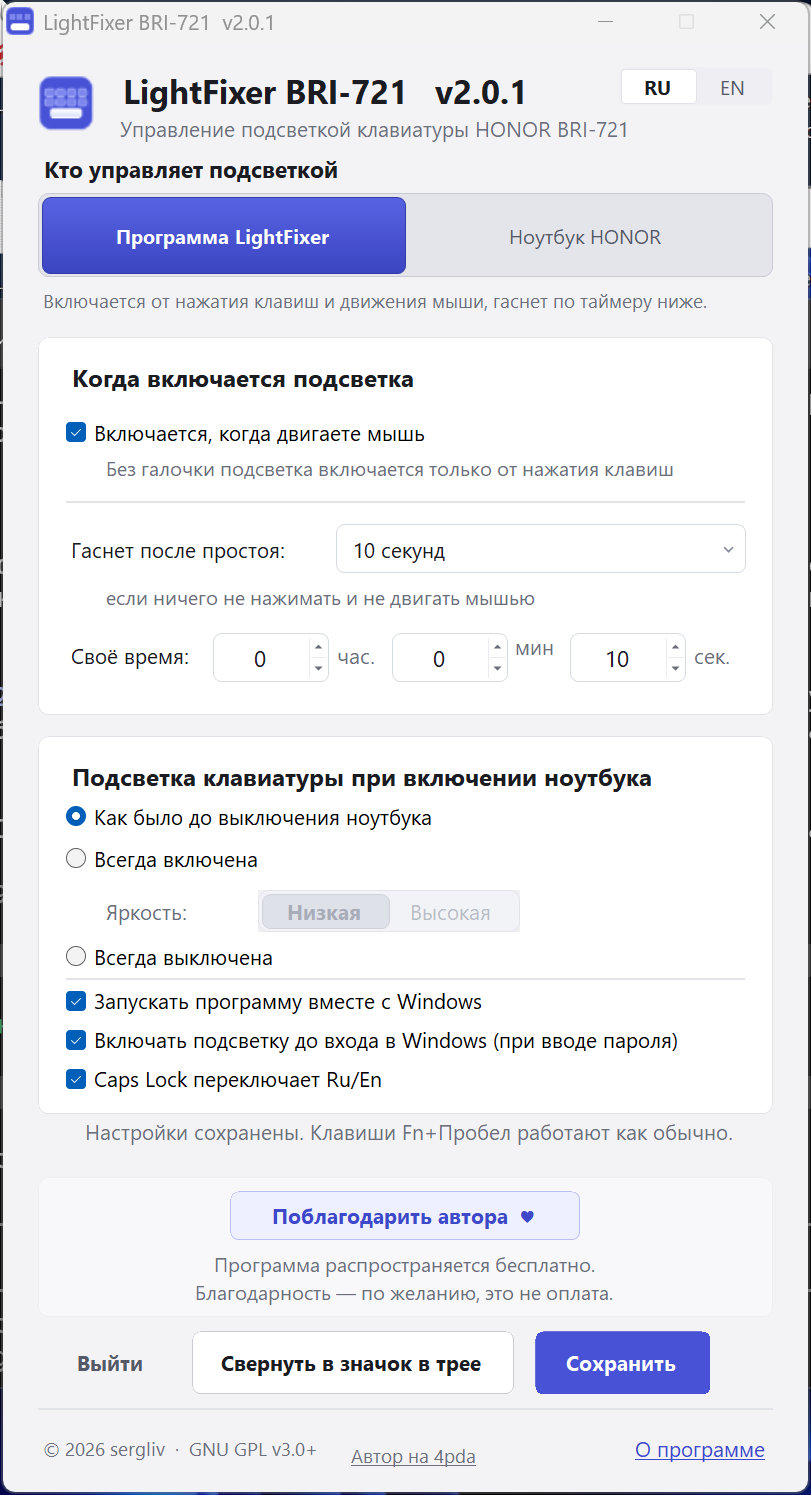
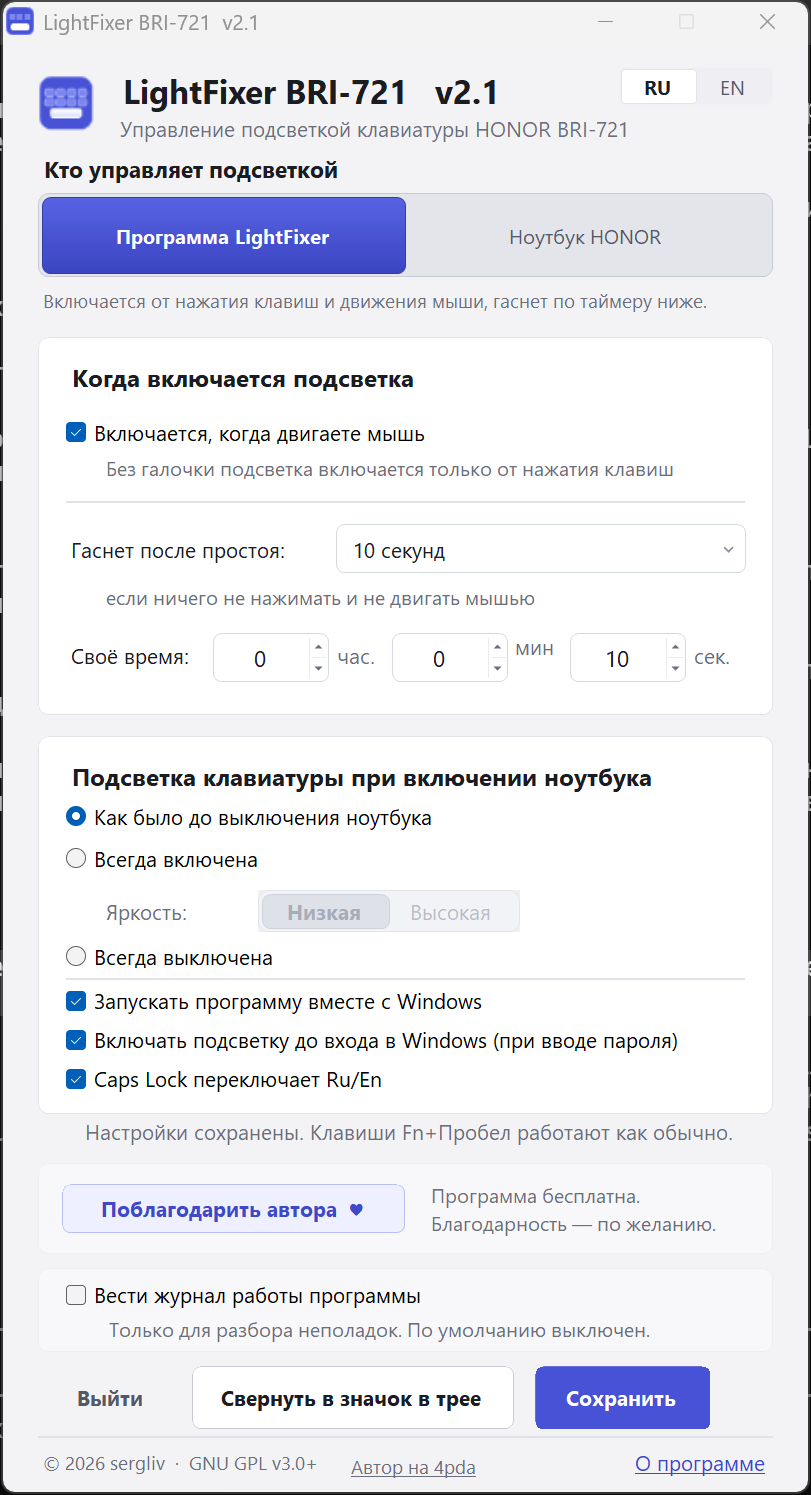
2.1: журнал работы включается галочкой, по умолчанию выключен

diff --git a/LightFixer.cs b/LightFixer.cs
@@ -34,8 +34,8 @@ using System.Windows.Forms;
 
 // the same number must stand in three places: here, in app.manifest and in the window;
 // bump them together
-[assembly: AssemblyVersion("2.0.1.0")]
-[assembly: AssemblyFileVersion("2.0.1.0")]
+[assembly: AssemblyVersion("2.1.0.0")]
+[assembly: AssemblyFileVersion("2.1.0.0")]
 [assembly: AssemblyProduct("LightFixer BRI-721")]
 [assembly: AssemblyCopyright("Copyright (C) 2026 sergliv")]
 
@@ -53,6 +53,10 @@ namespace LightFixer
         public bool MouseWake = true;
         public bool BootLight = true;       // light at the password screen, before sign-in
         public bool CapsSwitch = false;     // Caps Lock switches the keyboard layout, not the lock
+        // the journal is off until the owner asks for it: it exists only to find out why
+        // something did not work, and a program that writes files by default is a program
+        // people have to trust blindly
+        public bool LogEnabled = false;
         public string Lang = "";            // interface language: "ru" | "en"
         public int FwTimeout = 0;           // the laptop's own timeout, kept to restore it on exit
         public string Path;
@@ -81,6 +85,9 @@ namespace LightFixer
                     if (m.Success) BootLight = m.Groups[1].Value == "true";
                     m = Regex.Match(t, "\"capsSwitch\"\\s*:\\s*(true|false)");
                     if (m.Success) CapsSwitch = m.Groups[1].Value == "true";
+                    // a file written by an older version has no such key: logging stays off
+                    m = Regex.Match(t, "\"logEnabled\"\\s*:\\s*(true|false)");
+                    LogEnabled = m.Success && m.Groups[1].Value == "true";
                     m = Regex.Match(t, "\"startup\"\\s*:\\s*\"([^\"]+)\"");
                     if (m.Success) Startup = m.Groups[1].Value;
                     m = Regex.Match(t, "\"lastLevel\"\\s*:\\s*\"([^\"]+)\"");
@@ -117,6 +124,7 @@ namespace LightFixer
                         "    \"mouseWake\":  " + (MouseWake ? "true" : "false") + ",\n" +
                         "    \"bootLight\":  " + (BootLight ? "true" : "false") + ",\n" +
                         "    \"capsSwitch\":  " + (CapsSwitch ? "true" : "false") + ",\n" +
+                        "    \"logEnabled\":  " + (LogEnabled ? "true" : "false") + ",\n" +
                         "    \"idleSeconds\":  " + IdleSeconds.ToString(CultureInfo.InvariantCulture) + ",\n" +
                         "    \"lang\":  \"" + Lang + "\",\n" +
                         "    \"fwTimeout\":  " + FwTimeout.ToString(CultureInfo.InvariantCulture) + "\n" +
@@ -371,6 +379,10 @@ namespace LightFixer
             try
             {
                 if (logPath == null) return;
+                // the journal exists for one purpose only - to find out why something did
+                // not work - and it is written only when the owner has asked for it in the
+                // window. With the box empty the program writes no file at all.
+                if (S == null || !S.LogEnabled) return;
                 lock (logLock)
                 {
                     string line = DateTime.Now.ToString("yyyy-MM-dd HH:mm:ss") + "  " + msg + Environment.NewLine;
@@ -577,6 +589,9 @@ namespace LightFixer
         {
             string dir = Path.GetDirectoryName(System.Reflection.Assembly.GetExecutingAssembly().Location);
             logPath = Path.Combine(dir, "boot.log");
+            // the journal switch lives in the settings file: the copy that runs before
+            // sign-in has to respect it as well as the tray one
+            if (cfg != null) S = cfg;
             try
             {
                 if (cfg == null) { BootNote("boot: settings were not read, nothing done"); return; }
@@ -607,6 +622,8 @@ namespace LightFixer
         {
             try
             {
+                // the same rule as the main journal: nothing is written unless asked for
+                if (S == null || !S.LogEnabled) return;
                 string path = logPath;
                 if (path == null) return;
                 lock (logLock) File.AppendAllText(path, DateTime.Now.ToString("yyyy-MM-dd HH:mm:ss") + "  " + msg + Environment.NewLine, Encoding.UTF8);
@@ -1370,7 +1387,8 @@ namespace LightFixer
         private static CheckBox cbMouse;
         private static CheckBox cbAutostart, cbBoot;   // program start: with Windows, before sign-in
         private static CheckBox cbCaps;                // Caps Lock as the layout switch
-        private static CardPanel cardBehaviour, cardStartup, cardSupport;
+        private static CheckBox cbLog;                 // keep the journal of the program's work
+        private static CardPanel cardBehaviour, cardStartup, cardSupport, cardLog;
         // kept in a field on purpose: a ToolTip that nothing references is collected
         // by the garbage collector and the hints silently stop appearing
         private static ToolTip tipStartup;
@@ -1815,6 +1833,11 @@ namespace LightFixer
             menu.MenuItems.Add(miAuto);
             menu.MenuItems.Add("-");
 
+            MenuItem miLog = new MenuItem(L("Открыть журнал работы", "Open the journal"));
+            miLog.Click += delegate { OpenLog(); };
+            menu.MenuItems.Add(miLog);
+            menu.MenuItems.Add("-");
+
             MenuItem miAbout = new MenuItem(L("О программе", "About"));
             miAbout.Click += delegate { ShowAbout(); };
             menu.MenuItems.Add(miAbout);
@@ -1859,8 +1882,21 @@ namespace LightFixer
 
         private static void OpenLog()
         {
+            if (S == null || !S.LogEnabled)
+            {
+                MessageBox.Show(L("Журнал выключен. Включите галочку «Вести журнал работы программы» в окне настроек.",
+                                  "The journal is switched off. Tick \"Keep a journal of the program's work\" in the settings window."),
+                                "LightFixer BRI-721", MessageBoxButtons.OK, MessageBoxIcon.Information);
+                return;
+            }
             string log = Path.Combine(Environment.GetFolderPath(Environment.SpecialFolder.LocalApplicationData), "LightFixer", "lightfixer.log");
-            try { if (File.Exists(log)) Process.Start("notepad.exe", "\"" + log + "\""); } catch { }
+            try
+            {
+                if (File.Exists(log)) Process.Start("notepad.exe", "\"" + log + "\"");
+                else MessageBox.Show(L("Журнал пока пуст: записей ещё не было.", "The journal is still empty: nothing has happened yet."),
+                                     "LightFixer BRI-721", MessageBoxButtons.OK, MessageBoxIcon.Information);
+            }
+            catch { }
         }
 
         private static void UpdateUi()
@@ -1916,7 +1952,7 @@ namespace LightFixer
             // the window is rebuilt on every language change: the old tips would leak
             if (tipStartup != null) { tipStartup.Dispose(); tipStartup = null; }
             form = new Form();
-            form.Text = "LightFixer BRI-721  v2.0.1";
+            form.Text = "LightFixer BRI-721  v2.1";
             form.AutoScaleMode = AutoScaleMode.None;
             form.ClientSize = new Size(460, 828);
             form.StartPosition = FormStartPosition.CenterScreen;
@@ -1935,7 +1971,7 @@ namespace LightFixer
             form.Controls.Add(picLogo);
 
             Label title = new Label();
-            title.Text = "LightFixer BRI-721   v2.0.1";
+            title.Text = "LightFixer BRI-721   v2.1";
             title.Font = new Font("Segoe UI", 14f, FontStyle.Bold);
             title.ForeColor = CText;
             title.TextAlign = ContentAlignment.MiddleLeft;
@@ -1953,7 +1989,7 @@ namespace LightFixer
             lnkAbout.Text = L("О программе", "About");
             lnkAbout.TextAlign = ContentAlignment.MiddleRight;
             lnkAbout.LinkColor = CLink;
-            lnkAbout.SetBounds(352, 792, 88, 22);
+            lnkAbout.SetBounds(352, 800, 88, 22);
             lnkAbout.LinkClicked += delegate { ShowAbout(); };
             form.Controls.Add(lnkAbout);
 
@@ -2174,7 +2210,7 @@ namespace LightFixer
 
             // ---- support: a visible button, but nothing is sold and nothing is unlocked
             cardSupport = new CardPanel();
-            cardSupport.SetBounds(20, 648, 420, 80);
+            cardSupport.SetBounds(20, 640, 420, 52);
             cardSupport.Dim = true;
             form.Controls.Add(cardSupport);
 
@@ -2186,7 +2222,7 @@ namespace LightFixer
             btnDonate.PressFill = Color.FromArgb(0xD8, 0xDC, 0xFF);
             btnDonate.Border = Color.FromArgb(0xB9, 0xBF, 0xF5);
             btnDonate.TextColor = CLink;
-            btnDonate.SetBounds(110, 8, 200, 28);
+            btnDonate.SetBounds(14, 12, 196, 28);
             btnDonate.Click += delegate
             {
                 try { Process.Start(new ProcessStartInfo(DonateUrl) { UseShellExecute = true }); }
@@ -2195,13 +2231,34 @@ namespace LightFixer
             cardSupport.Controls.Add(btnDonate);
 
             Label lblSupport = new Label();
-            lblSupport.Text = L("Программа распространяется бесплатно.\r\nБлагодарность — по желанию, это не оплата.",
-                                "The program is free of charge.\r\nA thank-you is optional and is not a payment.");
+            lblSupport.Text = L("Программа бесплатна.\r\nБлагодарность — по желанию.",
+                                "The program is free.\r\nA thank-you is optional.");
             lblSupport.Font = new Font("Segoe UI", 8.25f);
             lblSupport.ForeColor = CHint;
-            lblSupport.TextAlign = ContentAlignment.MiddleCenter;
-            lblSupport.SetBounds(16, 40, 388, 34);
+            lblSupport.TextAlign = ContentAlignment.MiddleLeft;
+            lblSupport.SetBounds(222, 4, 190, 44);
             cardSupport.Controls.Add(lblSupport);
+
+            // ---- the journal, a section of its own: it is not a setting of the light,
+            // it is a switch for the file the program may write while it works
+            cardLog = new CardPanel();
+            cardLog.SetBounds(20, 700, 420, 48);
+            cardLog.Dim = true;
+            form.Controls.Add(cardLog);
+
+            cbLog = new CheckBox();
+            cbLog.Text = L("Вести журнал работы программы", "Keep a journal of the program's work");
+            cbLog.SetBounds(16, 6, 388, 20);
+            cardLog.Controls.Add(cbLog);
+
+            Label lblLogHint = new Label();
+            lblLogHint.Text = L("Только для разбора неполадок. По умолчанию выключен.",
+                                "Only for looking into troubles. Off by default.");
+            lblLogHint.Font = new Font("Segoe UI", 8.25f);
+            lblLogHint.ForeColor = CHint;
+            lblLogHint.TextAlign = ContentAlignment.MiddleLeft;
+            lblLogHint.SetBounds(38, 26, 366, 16);
+            cardLog.Controls.Add(lblLogHint);
 
             // ---- buttons: the destructive one far from the main one
             // the least important action is a plain link, not a button: it must not
@@ -2215,13 +2272,13 @@ namespace LightFixer
             btnQuit.LinkBehavior = LinkBehavior.HoverUnderline;
             btnQuit.TextAlign = ContentAlignment.MiddleCenter;
             btnQuit.AutoSize = false;
-            btnQuit.SetBounds(20, 736, 84, 36);
+            btnQuit.SetBounds(20, 756, 84, 36);
             form.Controls.Add(btnQuit);
 
             FlatButton btnTray = new FlatButton();
             btnTray.Text = L("Свернуть в значок в трее", "Minimize to tray");
             btnTray.BackColor = CBack;
-            btnTray.SetBounds(108, 736, 184, 36);
+            btnTray.SetBounds(108, 756, 184, 36);
             form.Controls.Add(btnTray);
 
             FlatButton btnSave = new FlatButton();
@@ -2232,13 +2289,13 @@ namespace LightFixer
             btnSave.PressFill = CAccentPress;
             btnSave.Border = Color.FromArgb(0, 0, 0, 0);
             btnSave.TextColor = Color.White;
-            btnSave.SetBounds(304, 736, 100, 36);
+            btnSave.SetBounds(304, 756, 100, 36);
             form.Controls.Add(btnSave);
 
             // ---- footer
             Panel sepFooter = new Panel();
             sepFooter.BackColor = CLine;
-            sepFooter.SetBounds(20, 780, 420, 1);
+            sepFooter.SetBounds(20, 796, 420, 1);
             form.Controls.Add(sepFooter);
 
             Label lblCopyright = new Label();
@@ -2246,7 +2303,7 @@ namespace LightFixer
             lblCopyright.Font = new Font("Segoe UI", 8f);
             lblCopyright.ForeColor = CFooter;
             lblCopyright.TextAlign = ContentAlignment.MiddleLeft;
-            lblCopyright.SetBounds(20, 792, 168, 22);
+            lblCopyright.SetBounds(20, 800, 168, 22);
             form.Controls.Add(lblCopyright);
 
             LinkLabel lnk4pda = new LinkLabel();
@@ -2254,7 +2311,7 @@ namespace LightFixer
             lnk4pda.Font = new Font("Segoe UI", 8f);
             lnk4pda.LinkColor = CFooter;
             lnk4pda.TextAlign = ContentAlignment.MiddleLeft;
-            lnk4pda.SetBounds(196, 796, 140, 22);
+            lnk4pda.SetBounds(196, 802, 140, 22);
             lnk4pda.LinkClicked += delegate
             {
                 try { Process.Start(new ProcessStartInfo("https://4pda.to/forum/index.php?showuser=1727220") { UseShellExecute = true }); }
@@ -2416,6 +2473,7 @@ namespace LightFixer
             cbAutostart.Checked = TaskEnabled();
             cbBoot.Checked = S.BootLight;
             cbCaps.Checked = S.CapsSwitch;
+            cbLog.Checked = S.LogEnabled;
 
             int idx = Array.IndexOf(IdleValues, S.IdleSeconds);
             if (idx < 0) idx = IdleValues.Length - 1;   // not in the list - show it as "your own value"
@@ -2433,7 +2491,7 @@ namespace LightFixer
             dirty = false;
             SetStatus(0, L("Настройки сохранены. Клавиши Fn+Пробел работают как обычно.",
                               "Settings are saved. Fn+Space works as usual."));
-            if (form != null) form.Text = "LightFixer BRI-721  v2.0.1";
+            if (form != null) form.Text = "LightFixer BRI-721  v2.1";
         }
 
         // ---------- unsaved changes ----------
@@ -2526,6 +2584,7 @@ namespace LightFixer
                 S.MouseWake = cbMouse.Checked;
                 S.BootLight = cbBoot.Checked;
                 S.CapsSwitch = cbCaps.Checked;
+                S.LogEnabled = cbLog.Checked;
                 if (rbOff.Checked) S.Startup = "off";
                 else if (rbLast.Checked) S.Startup = "last";
                 else if (rbOn.Checked) S.Startup = (segLevel.SelectedIndex == 1) ? "high" : "low";
@@ -2550,7 +2609,7 @@ namespace LightFixer
                 }
 
                 dirty = false;
-                if (form != null) form.Text = "LightFixer BRI-721  v2.0.1";
+                if (form != null) form.Text = "LightFixer BRI-721  v2.1";
                 ApplyStartUpTicks();
                 string savedText = L("Сохранено. Уже действует.", "Saved. Now in effect.");
                 SetStatus(2, savedText);
@@ -2707,7 +2766,7 @@ namespace LightFixer
                             "Keyboard backlight control for HONOR BRI-721"), ContentAlignment.MiddleLeft);
 
                 Label pill = new Label();
-                pill.Text = L("версия 2.0.1", "version 2.0.1");
+                pill.Text = L("версия 2.1", "version 2.1");
                 pill.ForeColor = CLink;
                 pill.TextAlign = ContentAlignment.MiddleCenter;
                 pill.AutoSize = false;

diff --git a/README.md b/README.md
@@ -1,10 +1,12 @@
-# LightFixer BRI-721  —  версия 2.0.1
+# LightFixer BRI-721  —  версия 2.1
 
 Фиксер подсветки клавиатуры ноутбука **HONOR X16 Plus BRI-721** под Windows 11.
 
 Английская версия: [README.en.md](README.en.md)
 
-**Что нового в 2.0.1.** Программа стала безопасной для других моделей HONOR. Если прошивка ноутбука не умеет сообщать о нажатии (или сообщает другими числами), программа это распознаёт и работает по-старому — обычной проверкой света, как версия 1.2.6. Редкая проверка (раз в 30 секунд) включается только после того, как от ноутбука действительно пришло хотя бы одно нажатие.
+**Что нового в 2.1.** Журнал работы теперь можно включить и выключить: внизу окна отдельная карточка «Вести журнал работы программы», по умолчанию галочка снята. Пока она снята, программа не пишет на диск ничего — ни журнал, ни файл загрузки. Журнал нужен только для разбора неполадок: в нём время, режимы света и сообщения об ошибках, но нет того, что вы печатаете.
+
+**Что было в 2.0.1.** Программа стала безопасной для других моделей HONOR. Если прошивка ноутбука не умеет сообщать о нажатии (или сообщает другими числами), программа это распознаёт и работает по-старому — обычной проверкой света, как версия 1.2.6. Редкая проверка (раз в 30 секунд) включается только после того, как от ноутбука действительно пришло хотя бы одно нажатие.
 
 **Что было в 2.0.** Главное изменение: нажатие Fn+Пробел программа теперь узнаёт от самого ноутбука. Контроллер сообщает Windows, какой шаг нажат, и программа слышит это сразу — за доли миллисекунды, а не «когда посмотрит». Поэтому исчезла задержка до двух-трёх секунд, которая была при нажатии после простоя, и убран постоянный опрос прошивки. Заодно расход упал: около **0,03 % одного ядра** против 0,3–0,55 % в первых версиях (за час простоя — примерно секунда работы процессора). Страховка осталась: одно чтение света раз в 30 секунд и ещё одно после пробуждения; если оно заметит смену, о которой сообщения не было, программа сама вернётся к частой проверке и напишет об этом в журнал. В 2.0 входит всё, что было наработано с 1.0: Caps Lock переключает Ru/En, подсветка при включении ноутбука, гашение по простою, режим «Штатные настройки HONOR».
 
@@ -81,8 +83,11 @@ Ru/En — теперь оба навыка в одном приложении и
 не нужно: программа сама приводит их в соответствие с галочками.
 
 Настройки хранятся в файле `settings.json` рядом с программой — папка должна быть
-доступна для записи. Журнал работы (для диагностики) —
-`%LOCALAPPDATA%\LightFixer\lightfixer.log`, открывается из меню значка в трее.
+доступна для записи. Журнал работы (для диагностики) ведётся только по галочке
+«Вести журнал работы программы» в отдельной карточке внизу окна — по умолчанию
+она снята, и тогда программа не пишет на диск ничего. Включённый журнал лежит в
+`%LOCALAPPDATA%\LightFixer\lightfixer.log`, открывается из меню значка в трее,
+ограничен 256 КБ (старые строки стираются сами).
 Если перенести `.exe` в другую папку, задача автозапуска обновится сама при
 следующем запуске программы.
 

diff --git a/README.en.md b/README.en.md
@@ -1,8 +1,14 @@
-# LightFixer BRI-721  —  version 2.0.1
+# LightFixer BRI-721  —  version 2.1
 
 Keyboard backlight helper for the **HONOR X16 Plus 2024 (BRI-721)** notebook on Windows 11.
 
-**New in 2.0.1.** The program is now safe on other HONOR models. If the notebook's
+**New in 2.1.** The journal can now be switched on and off: a card of its own at the
+bottom of the window, "Keep a journal of the program's work", unticked by default.
+While it is unticked the program writes nothing to disk — neither the journal nor the
+boot file. The journal is only there to look into troubles: it holds times, light
+modes and error messages, but nothing you type.
+
+**Was new in 2.0.1.** The program is now safe on other HONOR models. If the notebook's
 firmware cannot report a press (or reports other numbers), the program notices it and
 works the old way — by reading the light, exactly as version 1.2.6 did. The rare
 check (once every 30 seconds) only starts after at least one press has really come
@@ -93,9 +99,12 @@ They are visible in Task Scheduler (Win+R → `taskschd.msc`), but there is no n
 to touch them there: the program keeps them in line with the ticks itself.
 
 Settings are stored in `settings.json` next to the executable, so that folder must be
-writable. The diagnostic log is at `%LOCALAPPDATA%\LightFixer\lightfixer.log` and can
-be opened from the tray menu. If you move the `.exe` elsewhere, the autostart task is
-updated on the next launch.
+writable. The journal is kept only when the box "Keep a journal of the program's work"
+is ticked in its own card at the bottom of the window — it is unticked by default, and
+then the program writes nothing to disk at all. A journal that is switched on lives at
+`%LOCALAPPDATA%\LightFixer\lightfixer.log`, opens from the tray menu and is capped at
+256 KB (the oldest lines go by themselves). If you move the `.exe` elsewhere, the
+autostart task is updated on the next launch.
 
 In "HONOR's own settings" mode the program sends no backlight commands: it does not
 set the brightness and does not change the BIOS timeout. It only reads the current
